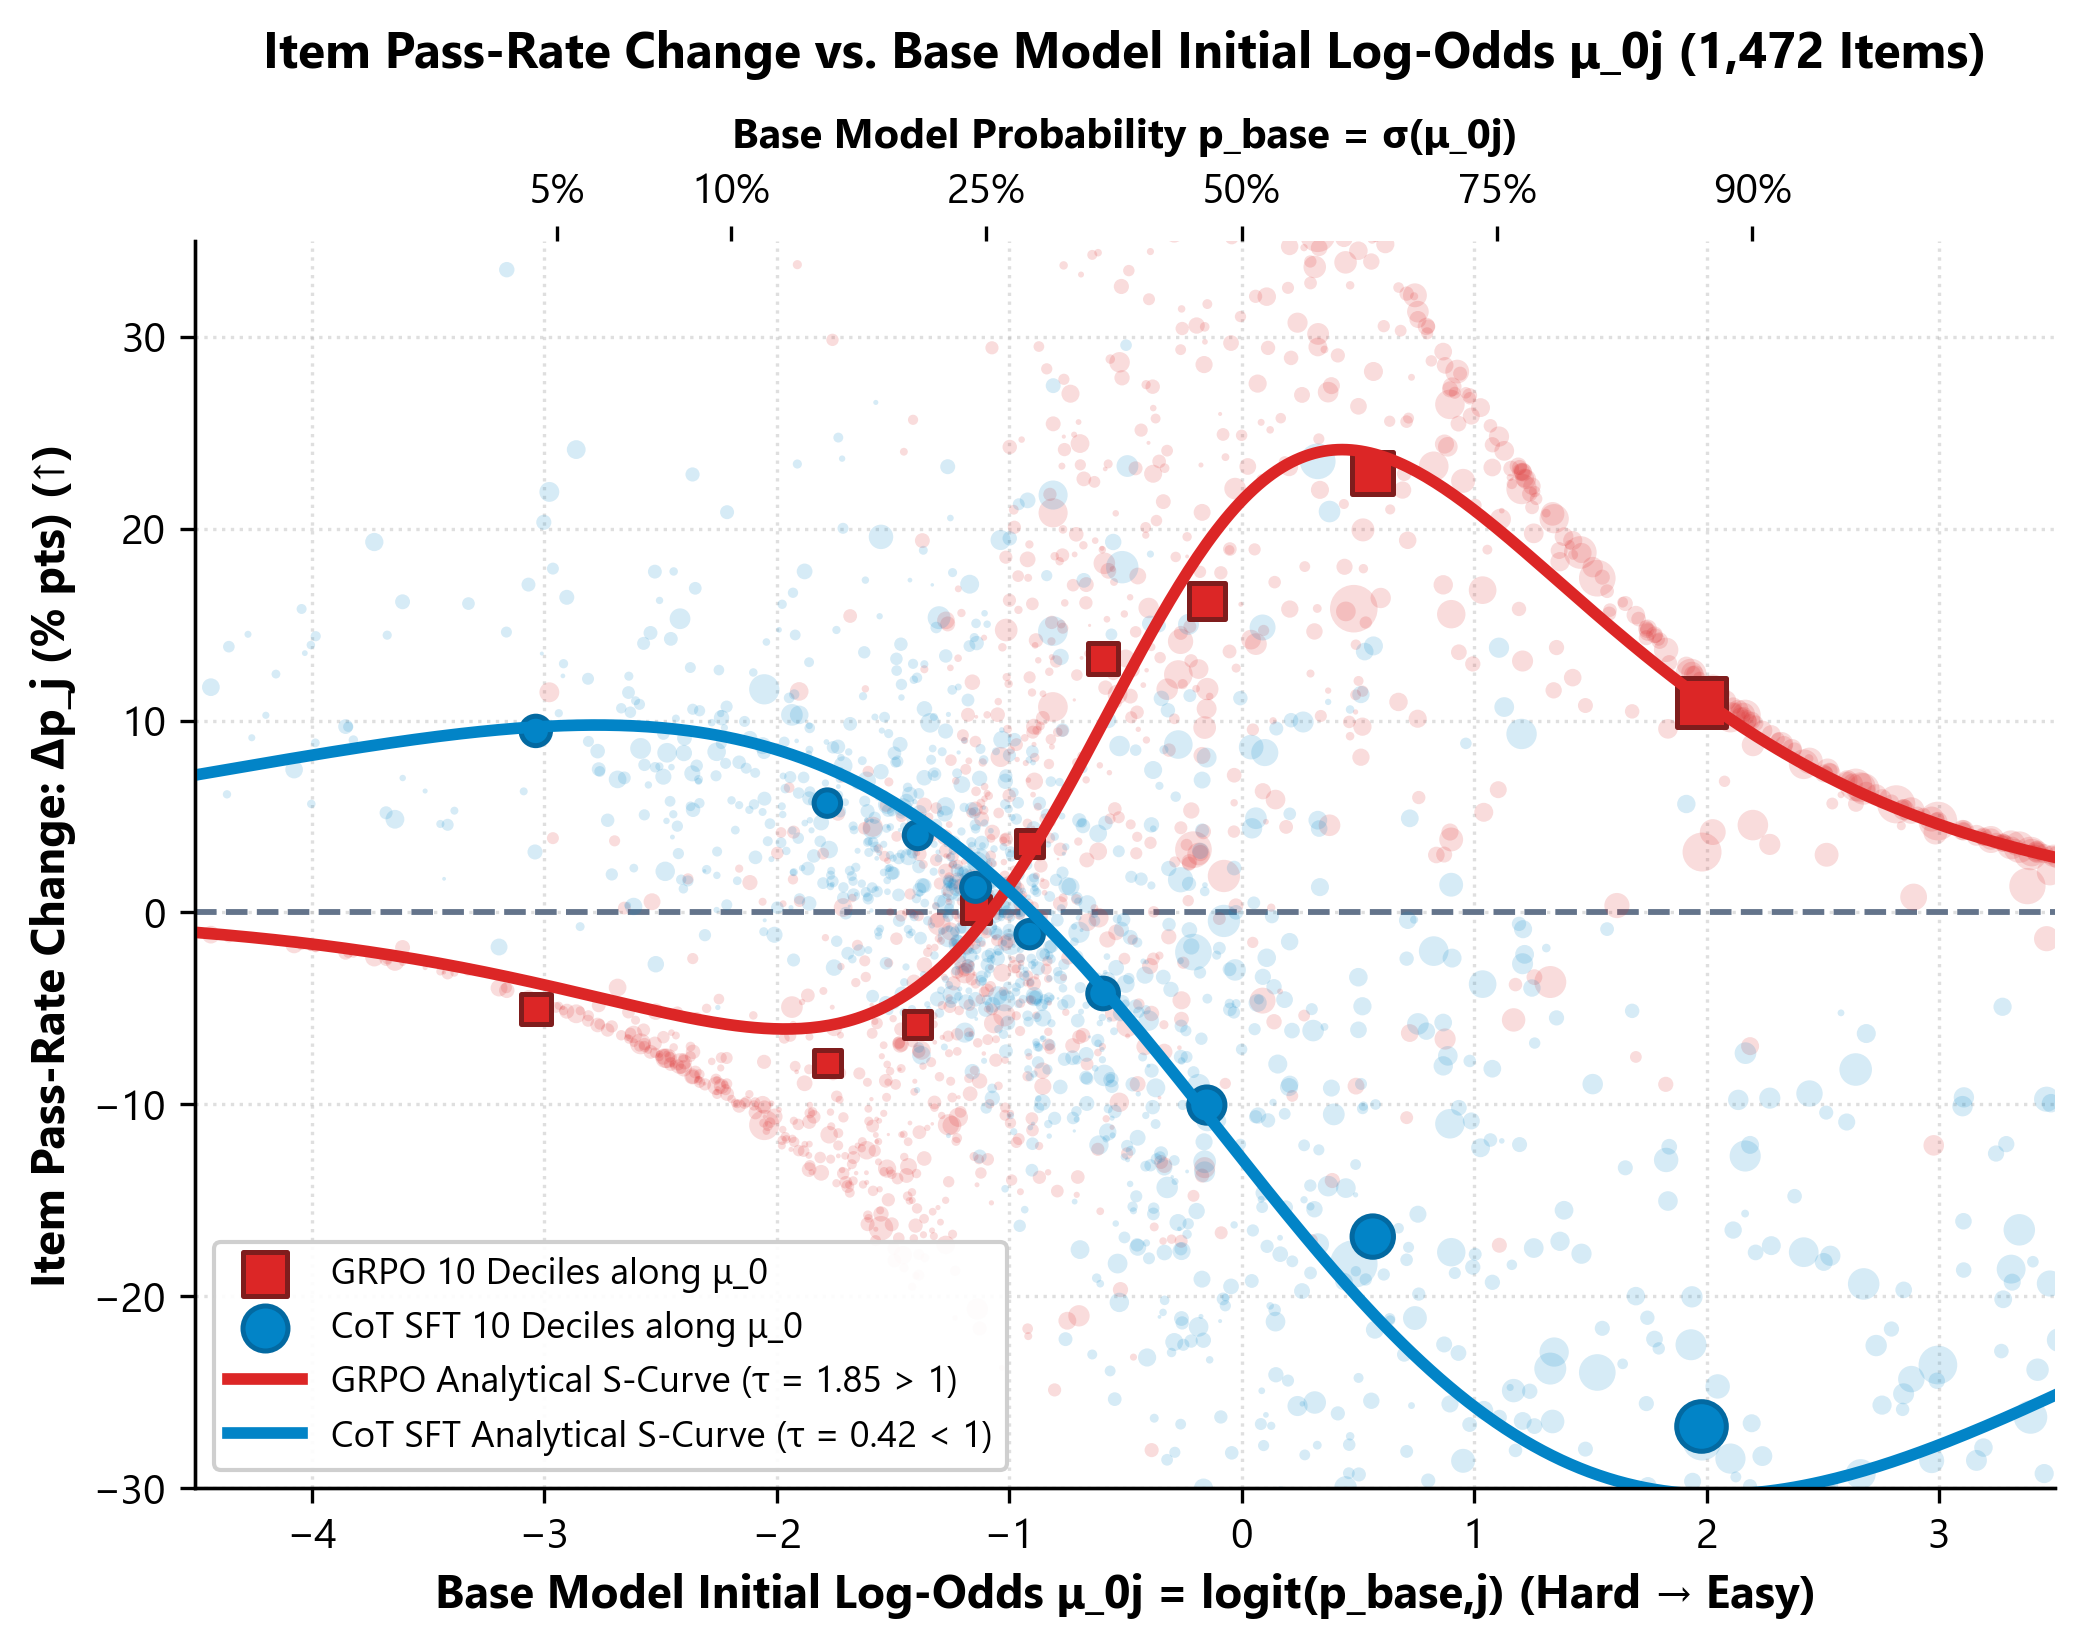
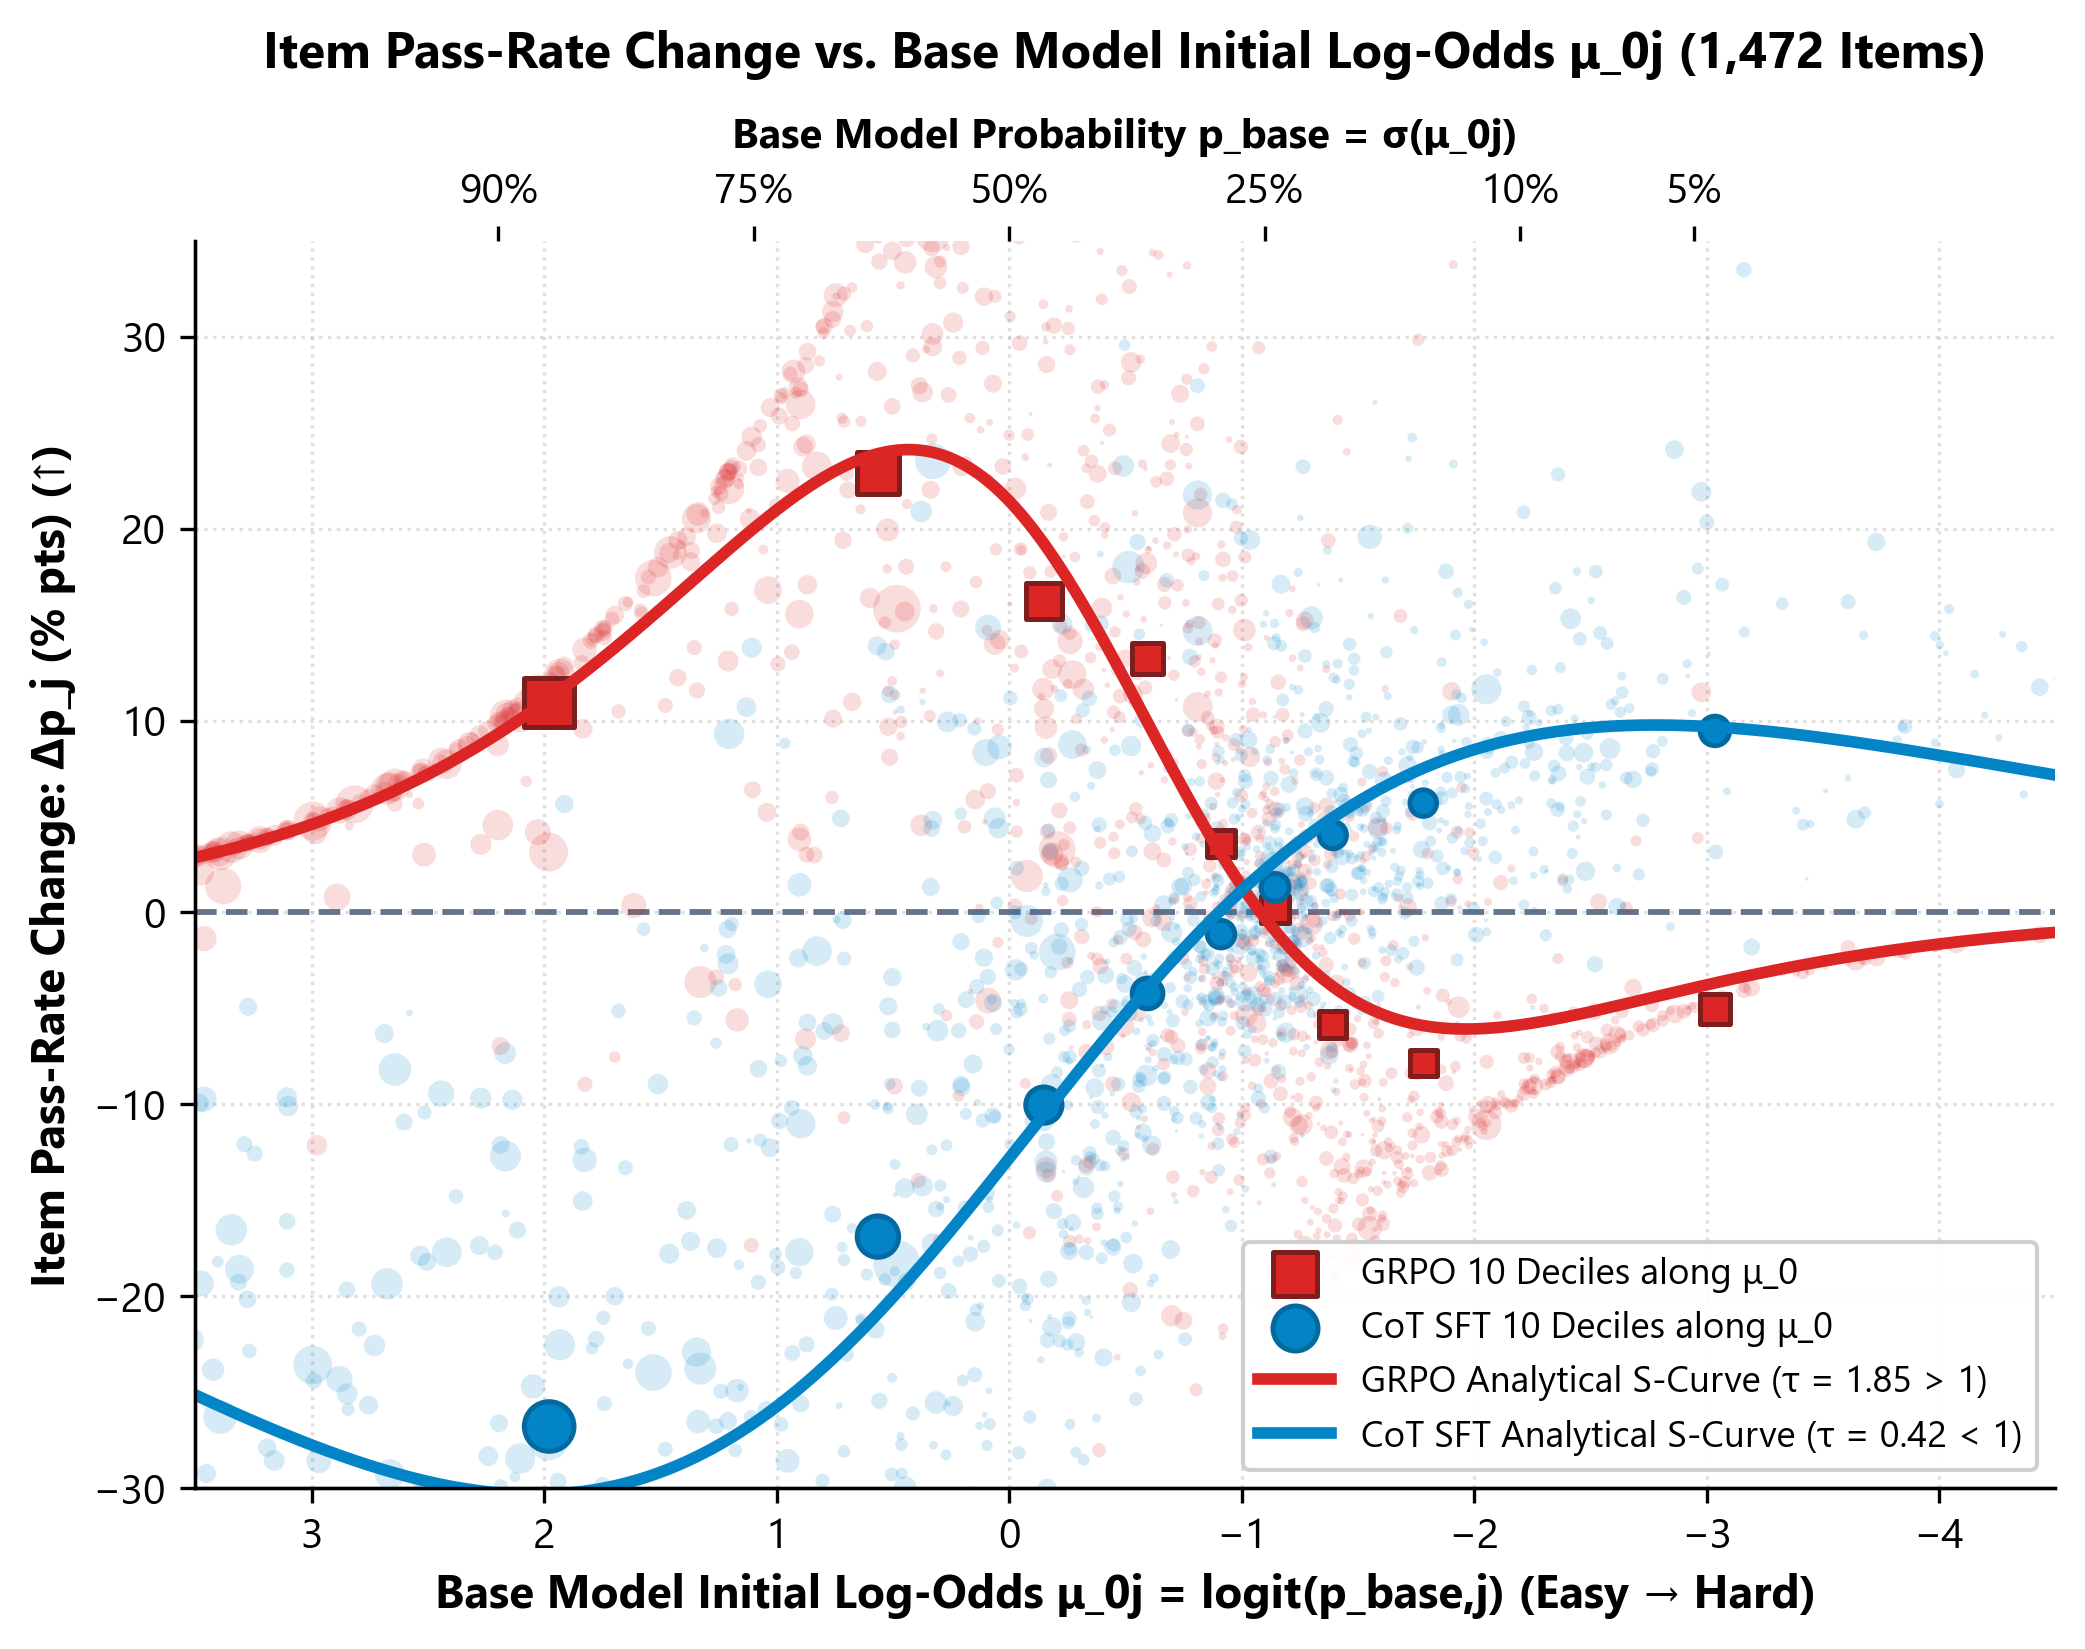
feat(figures): flip Fig04_v4 horizontally (Easy to Hard) and add Fig04_v5 stacked 2x1 figure

diff --git a/gemini/make_oct26_figures.py b/gemini/make_oct26_figures.py
@@ -575,7 +575,7 @@ def make_fig4_v4_base_logit_scurve():
     binned_L = w0_ok.groupby("L_bin", observed=False)[["a", "L_base", "dp_sft", "dp_grpo"]].mean()
     sizes_bin = binned_L["a"].to_numpy() * 110.0
 
-    L_grid = np.linspace(-4.5, 3.5, 400)
+    L_grid = np.linspace(3.5, -4.5, 400)
     pred_grpo_curve = (expit(res_g.x[0] * L_grid + res_g.x[1]) - expit(L_grid)) * 100.0
     pred_sft_curve = (expit(res_s.x[0] * L_grid + res_s.x[1]) - expit(L_grid)) * 100.0
 
@@ -599,23 +599,118 @@ def make_fig4_v4_base_logit_scurve():
             label=f"CoT SFT Analytical S-Curve (\u03c4 = {res_s.x[0]:.2f} < 1)")
 
     ax.set_title("Item Pass-Rate Change vs. Base Model Initial Log-Odds \u03bc_0j (1,472 Items)", pad=12)
-    ax.set_xlabel("Base Model Initial Log-Odds \u03bc_0j = logit(p_base,j) (Hard \u2192 Easy)")
+    ax.set_xlabel("Base Model Initial Log-Odds \u03bc_0j = logit(p_base,j) (Easy \u2192 Hard)")
     ax.set_ylabel("Item Pass-Rate Change: \u0394p_j (% pts) (\u2191)")
-    ax.set_xlim(-4.5, 3.5)
+    ax.set_xlim(3.5, -4.5)
     ax.set_ylim(-30, 35)
-    ax.legend(loc="lower left", frameon=True, facecolor="white", framealpha=0.93, fontsize=8.8)
+    ax.legend(loc="lower right", frameon=True, facecolor="white", framealpha=0.93, fontsize=8.8)
     ax.grid(True, linestyle=":", alpha=0.4)
 
     # Secondary top axis showing probability p_base
     ax2 = ax.twiny()
-    p_ticks = np.array([0.05, 0.10, 0.25, 0.50, 0.75, 0.90])
+    p_ticks = np.array([0.90, 0.75, 0.50, 0.25, 0.10, 0.05])
     logit_ticks = logit(p_ticks)
     ax2.set_xlim(ax.get_xlim())
     ax2.set_xticks(logit_ticks)
-    ax2.set_xticklabels(["5%", "10%", "25%", "50%", "75%", "90%"])
+    ax2.set_xticklabels(["90%", "75%", "50%", "25%", "10%", "5%"])
     ax2.set_xlabel("Base Model Probability p_base = \u03c3(\u03bc_0j)", fontsize=10.0, fontweight="bold", labelpad=6)
 
     save_fig(fig, "Fig04_v4_base_logit_scurve.png")
+
+
+# ==============================================================================
+# FIGURE 4 v5: Stacked 2x1 Comparison (Population b_j vs. Within-Model mu_0j)
+# ==============================================================================
+def make_fig4_v5_stacked_b_vs_base():
+    w0 = pd.read_csv(os.path.join(RESULTS, "W0", "items_bank.csv"))
+    w0_ok = w0[w0["match_status"] == "matched"].copy()
+    t9 = pd.read_csv(os.path.join(RESULTS, "T9r", "items_wide.csv")).set_index("item_id").loc[w0_ok["bank_row_id"]]
+
+    w0_ok["p_base"] = np.clip(t9["p_key_base"].values, 1e-4, 1 - 1e-4)
+    w0_ok["L_base"] = logit(w0_ok["p_base"])
+    w0_ok["dp_sft"] = t9[["dp_key_sft_0_70", "dp_key_sft_1_70", "dp_key_sft_2_70"]].mean(axis=1).values * 100.0
+    w0_ok["dp_grpo"] = t9[["dp_key_rl_0_666", "dp_key_rl_1_666", "dp_key_rl_2_666"]].mean(axis=1).values * 100.0
+
+    b = w0_ok["b"].to_numpy()
+    dp_g = w0_ok["dp_grpo"].to_numpy()
+    dp_s = w0_ok["dp_sft"].to_numpy()
+    L0 = w0_ok["L_base"].to_numpy()
+    p0 = w0_ok["p_base"].to_numpy()
+
+    # Panel A: Fits on b_j
+    m_g, c_g = np.polyfit(b, dp_g, 1)
+    m_s, c_s = np.polyfit(b, dp_s, 1)
+    r2_lin_g = 1.0 - np.sum((dp_g - (m_g * b + c_g)) ** 2) / np.sum((dp_g - np.mean(dp_g)) ** 2)
+    r2_lin_s = 1.0 - np.sum((dp_s - (m_s * b + c_s)) ** 2) / np.sum((dp_s - np.mean(dp_s)) ** 2)
+    p3_g = np.poly1d(np.polyfit(b, dp_g, 3))
+    p3_s = np.poly1d(np.polyfit(b, dp_s, 3))
+    r2_p3_g = 1.0 - np.sum((dp_g - p3_g(b)) ** 2) / np.sum((dp_g - np.mean(dp_g)) ** 2)
+    r2_p3_s = 1.0 - np.sum((dp_s - p3_s(b)) ** 2) / np.sum((dp_s - np.mean(dp_s)) ** 2)
+
+    w0_ok["b_bin"] = pd.qcut(w0_ok["b"], q=10)
+    binned_b = w0_ok.groupby("b_bin", observed=False)[["a", "b", "dp_sft", "dp_grpo"]].mean()
+
+    # Panel B: Fits on L_base
+    p_g = np.clip(p0 + dp_g / 100.0, 1e-4, 1 - 1e-4)
+    p_s = np.clip(p0 + dp_s / 100.0, 1e-4, 1 - 1e-4)
+    res_g = minimize(lambda x: np.mean((p_g - expit(x[0] * L0 + x[1])) ** 2), [1.8, 0.0])
+    res_s = minimize(lambda x: np.mean((p_s - expit(x[0] * L0 + x[1])) ** 2), [0.5, 0.0])
+
+    w0_ok["L_bin"] = pd.qcut(w0_ok["L_base"], q=10)
+    binned_L = w0_ok.groupby("L_bin", observed=False)[["a", "L_base", "dp_sft", "dp_grpo"]].mean()
+
+    fig, (ax1, ax2) = plt.subplots(2, 1, figsize=(8.0, 8.8), gridspec_kw={"hspace": 0.40})
+
+    # ==================== Panel A (Top) ====================
+    ax1.axhline(0, color="#64748B", linestyle="--", linewidth=1.3)
+    ax1.scatter(b, dp_g, s=w0_ok["a"] * 18.0, color="#DC2626", alpha=0.15, edgecolors="none", zorder=2)
+    ax1.scatter(b, dp_s, s=w0_ok["a"] * 18.0, color="#0284C7", alpha=0.15, edgecolors="none", zorder=2)
+    ax1.scatter(binned_b["b"], binned_b["dp_grpo"], s=binned_b["a"] * 110.0, color="#DC2626", marker="s", zorder=5, edgecolors="#7F1D1D", linewidth=1.2, label="GRPO 10 Deciles")
+    ax1.scatter(binned_b["b"], binned_b["dp_sft"], s=binned_b["a"] * 110.0, color="#0284C7", marker="o", zorder=5, edgecolors="#0369A1", linewidth=1.2, label="CoT SFT 10 Deciles")
+
+    b_dense = np.linspace(-2.5, 5.0, 300)
+    ax1.plot(b_dense, p3_g(b_dense), "-", color="#DC2626", linewidth=2.8, zorder=6, label=f"GRPO Smooth Fit (R\u00b2 = {r2_p3_g:.3f})")
+    ax1.plot(b_dense, m_g * b_dense + c_g, "--", color="#991B1B", linewidth=1.8, zorder=6, label=f"GRPO Linear Fit (slope = {m_g:.2f}, R\u00b2 = {r2_lin_g:.3f})")
+    ax1.plot(b_dense, p3_s(b_dense), "-", color="#0284C7", linewidth=2.8, zorder=6, label=f"CoT SFT Smooth Fit (R\u00b2 = {r2_p3_s:.3f})")
+    ax1.plot(b_dense, m_s * b_dense + c_s, "--", color="#0369A1", linewidth=1.8, zorder=6, label=f"CoT SFT Linear Fit (slope = +{m_s:.2f}, R\u00b2 = {r2_lin_s:.3f})")
+
+    ax1.set_title("(A) External Population IRT Difficulty b_j (102 LLMs: Easy \u2192 Hard)", pad=8)
+    ax1.set_xlabel("IRT Item Difficulty b_j (Easy \u2192 Hard)")
+    ax1.set_ylabel("Pass-Rate Change: \u0394p_j (% pts) (\u2191)")
+    ax1.set_xlim(-2.5, 5.0)
+    ax1.set_ylim(-28, 32)
+    ax1.legend(loc="lower right", frameon=True, facecolor="white", framealpha=0.93, fontsize=8.2)
+    ax1.grid(True, linestyle=":", alpha=0.4)
+
+    # ==================== Panel B (Bottom) ====================
+    ax2.axhline(0, color="#64748B", linestyle="--", linewidth=1.3)
+    ax2.scatter(w0_ok["L_base"], dp_g, s=w0_ok["a"] * 18.0, color="#DC2626", alpha=0.15, edgecolors="none", zorder=2)
+    ax2.scatter(w0_ok["L_base"], dp_s, s=w0_ok["a"] * 18.0, color="#0284C7", alpha=0.15, edgecolors="none", zorder=2)
+    ax2.scatter(binned_L["L_base"], binned_L["dp_grpo"], s=binned_L["a"] * 110.0, color="#DC2626", marker="s", zorder=5, edgecolors="#7F1D1D", linewidth=1.2, label="GRPO 10 Deciles along \u03bc_0")
+    ax2.scatter(binned_L["L_base"], binned_L["dp_sft"], s=binned_L["a"] * 110.0, color="#0284C7", marker="o", zorder=5, edgecolors="#0369A1", linewidth=1.2, label="CoT SFT 10 Deciles along \u03bc_0")
+
+    L_grid = np.linspace(3.5, -4.5, 400)
+    pred_grpo_curve = (expit(res_g.x[0] * L_grid + res_g.x[1]) - expit(L_grid)) * 100.0
+    pred_sft_curve = (expit(res_s.x[0] * L_grid + res_s.x[1]) - expit(L_grid)) * 100.0
+    ax2.plot(L_grid, pred_grpo_curve, "-", color="#DC2626", linewidth=2.8, zorder=6, label=f"GRPO Analytical S-Curve (\u03c4 = {res_g.x[0]:.2f} > 1)")
+    ax2.plot(L_grid, pred_sft_curve, "-", color="#0284C7", linewidth=2.8, zorder=6, label=f"CoT SFT Analytical S-Curve (\u03c4 = {res_s.x[0]:.2f} < 1)")
+
+    ax2.set_title("(B) Within-Model Initial Log-Odds \u03bc_0j = logit(p_base,j) (Easy \u2192 Hard)", pad=8)
+    ax2.set_xlabel("Base Model Initial Log-Odds \u03bc_0j = logit(p_base,j) (Easy \u2192 Hard)")
+    ax2.set_ylabel("Pass-Rate Change: \u0394p_j (% pts) (\u2191)")
+    ax2.set_xlim(3.5, -4.5)
+    ax2.set_ylim(-28, 32)
+    ax2.legend(loc="lower right", frameon=True, facecolor="white", framealpha=0.93, fontsize=8.2)
+    ax2.grid(True, linestyle=":", alpha=0.4)
+
+    ax2_top = ax2.twiny()
+    p_ticks = np.array([0.90, 0.75, 0.50, 0.25, 0.10, 0.05])
+    ax2_top.set_xlim(ax2.get_xlim())
+    ax2_top.set_xticks(logit(p_ticks))
+    ax2_top.set_xticklabels(["90%", "75%", "50%", "25%", "10%", "5%"])
+    ax2_top.set_xlabel("Base Model Probability p_base = \u03c3(\u03bc_0j)", fontsize=9.5, fontweight="bold", labelpad=4)
+
+    save_fig(fig, "Fig04_v5_stacked_b_vs_base.png")
 
 
 # ==============================================================================
@@ -690,5 +785,6 @@ if __name__ == "__main__":
     make_fig4_v2_irt_item_slope()
     make_fig4_v3_b_fullpoint_fit()
     make_fig4_v4_base_logit_scurve()
+    make_fig4_v5_stacked_b_vs_base()
     make_fig5_rl_critics()
-    print("All figures (Fig00..Fig05 + v2/v3/v4 variants) generated successfully.")
+    print("All figures (Fig00..Fig05 + v2/v3/v4/v5 variants) generated successfully.")
